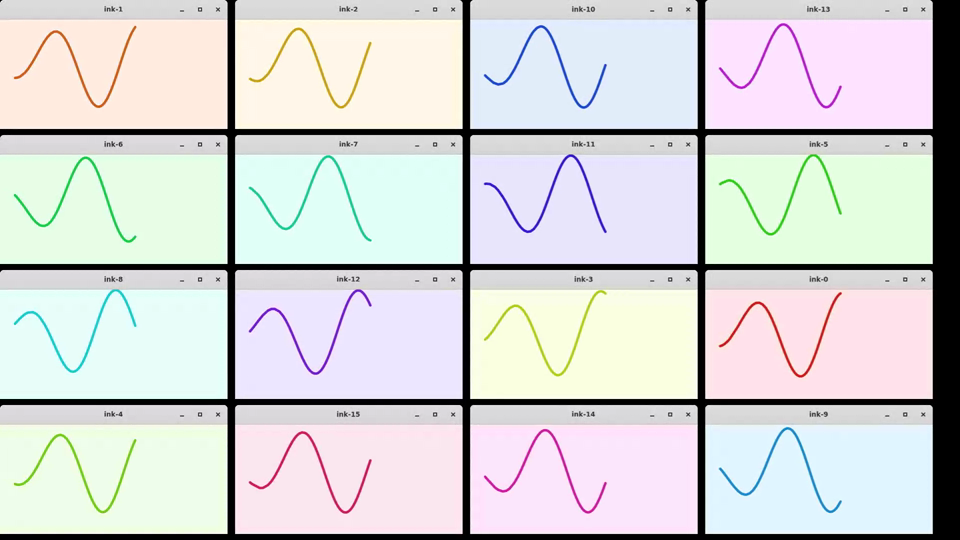
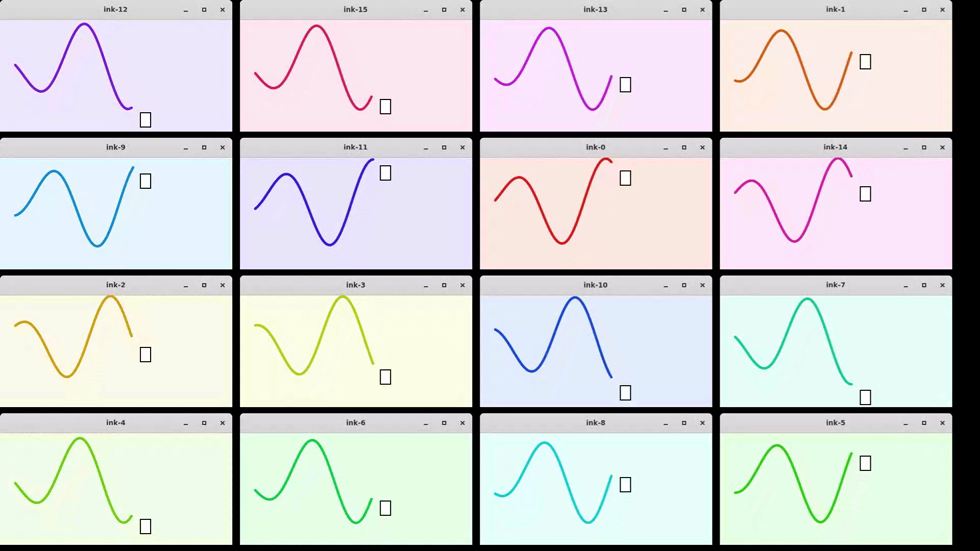
spike(cua-driver): visible per-session agent cursor overlay
Since injection bypasses the seat cursor (so the user's pointer never moves),
there was no on-screen cursor showing where clicks land. Adds a per-device
colored cursor drawn by the compositor (wlr_scene_rect) at each injection point,
raised above windows, flashing white on button press (phase_f_patch.py). The
driver now glides the pointer between targets so the cursor animates. Re-recorded
the app demo (cursor glides to each calc button) and the 16-window cursive (16
colored cursors) to show it.

diff --git a/libs/cua-driver/rust/crates/platform-linux/spikes/wayland-bg-input-app-demo/phase_f_patch.py b/libs/cua-driver/rust/crates/platform-linux/spikes/wayland-bg-input-app-demo/phase_f_patch.py
@@ -1,0 +1,262 @@
+#!/usr/bin/env python3
+# Phase E: add KEYBOARD injection to the EIS-server compositor (on top of the
+# Phase D pointer routing + screencopy/xdg-output/headless-mode/grid).
+# Device 0..g_nkbd-1 are virtual keyboards; the rest are abs pointers. Each
+# device idx routes to cua_win[idx] (keyboard -> wl_keyboard, pointer -> wl_pointer).
+import sys, io
+P = "/opt/spike/tinywl.c"
+src = io.open(P, encoding="utf-8").read()
+
+INCLUDES = """#include <stdint.h>
+#include <string.h>
+#include <sys/mman.h>
+#include <linux/input-event-codes.h>
+#include <wayland-server-protocol.h>
+#include <libeis.h>
+#include <wlr/types/wlr_screencopy_v1.h>
+#include <wlr/types/wlr_xdg_output_v1.h>
+
+#define CUA_MAXDEV 64
+static struct eis *g_eis = NULL;
+static int g_ndev = 16;
+static int g_nkbd = 0;
+static int g_keymap_fd = -1;
+static size_t g_keymap_size = 0;
+struct cua_devstate { struct wlr_surface *entered; struct wlr_scene_tree *cursor; struct wlr_scene_rect *cfill; float col[4]; };
+static struct cua_devstate cua_dev[CUA_MAXDEV];
+static struct cua_devstate cua_kbd[CUA_MAXDEV];
+static struct tinywl_toplevel *cua_win[CUA_MAXDEV];
+
+"""
+
+FUNCS = r"""
+static uint32_t cua_now_ms(void) {
+	struct timespec ts; clock_gettime(CLOCK_MONOTONIC, &ts);
+	return (uint32_t)(ts.tv_sec * 1000 + ts.tv_nsec / 1000000);
+}
+static void cua_frame(struct wl_resource *res) {
+	if (wl_resource_get_version(res) >= WL_POINTER_FRAME_SINCE_VERSION)
+		wl_pointer_send_frame(res);
+}
+static void cua_hsv(double h, double s, double v, float *r, float *g, float *b) {
+	h -= (int)h; int i = (int)(h*6); double f = h*6-i, p=v*(1-s), q=v*(1-f*s), t=v*(1-(1-f)*s);
+	switch (i%6) { case 0:*r=v;*g=t;*b=p;break; case 1:*r=q;*g=v;*b=p;break; case 2:*r=p;*g=v;*b=t;break;
+		case 3:*r=p;*g=q;*b=v;break; case 4:*r=t;*g=p;*b=v;break; default:*r=v;*g=p;*b=q; }
+}
+static void cua_cursor_at(struct tinywl_server *server, int idx, int ox, int oy) {
+	if (!cua_dev[idx].cursor) {
+		float col[4] = {1,1,1,1}; cua_hsv(idx*0.6180339887, 0.9, 0.95, &col[0], &col[1], &col[2]);
+		struct wlr_scene_tree *tr = wlr_scene_tree_create(&server->scene->tree);
+		float black[4] = {0,0,0,1};
+		wlr_scene_rect_create(tr, 22, 30, black);
+		struct wlr_scene_rect *fill = wlr_scene_rect_create(tr, 18, 26, col);
+		wlr_scene_node_set_position(&fill->node, 2, 2);
+		cua_dev[idx].cursor = tr; cua_dev[idx].cfill = fill;
+		memcpy(cua_dev[idx].col, col, sizeof col);
+	}
+	wlr_scene_node_set_position(&cua_dev[idx].cursor->node, ox, oy);
+	wlr_scene_node_raise_to_top(&cua_dev[idx].cursor->node);
+}
+static void cua_motion(struct tinywl_server *server, int idx, double x, double y) {
+	struct tinywl_toplevel *t = (idx >= 0 && idx < CUA_MAXDEV) ? cua_win[idx] : NULL;
+	if (!t) return;
+	struct wlr_surface *surface = t->xdg_toplevel->base->surface;
+	struct wlr_box geo = t->xdg_toplevel->base->geometry;
+	wl_fixed_t sx = wl_fixed_from_double(geo.x + x), sy = wl_fixed_from_double(geo.y + y);
+	struct wlr_seat_client *sc = wlr_seat_client_for_wl_client(server->seat, wl_resource_get_client(surface->resource));
+	if (!sc || wl_list_empty(&sc->pointers)) return;
+	cua_cursor_at(server, idx, t->scene_tree->node.x + geo.x + (int)x, t->scene_tree->node.y + geo.y + (int)y);
+	struct wl_resource *res;
+	if (cua_dev[idx].entered != surface) {
+		if (cua_dev[idx].entered) {
+			struct wlr_seat_client *o = wlr_seat_client_for_wl_client(server->seat, wl_resource_get_client(cua_dev[idx].entered->resource));
+			if (o) { uint32_t ls = wlr_seat_client_next_serial(o); struct wl_resource *r2; wl_resource_for_each(r2, &o->pointers) { wl_pointer_send_leave(r2, ls, cua_dev[idx].entered->resource); cua_frame(r2); } }
+		}
+		uint32_t es = wlr_seat_client_next_serial(sc);
+		wl_resource_for_each(res, &sc->pointers) { wl_pointer_send_enter(res, es, surface->resource, sx, sy); cua_frame(res); }
+		cua_dev[idx].entered = surface;
+	}
+	uint32_t tm = cua_now_ms();
+	wl_resource_for_each(res, &sc->pointers) { wl_pointer_send_motion(res, tm, sx, sy); cua_frame(res); }
+}
+static void cua_button(struct tinywl_server *server, int idx, uint32_t button, bool pressed) {
+	struct tinywl_toplevel *t = (idx >= 0 && idx < CUA_MAXDEV) ? cua_win[idx] : NULL;
+	if (!t) return;
+	struct wlr_surface *surface = t->xdg_toplevel->base->surface;
+	struct wlr_seat_client *sc = wlr_seat_client_for_wl_client(server->seat, wl_resource_get_client(surface->resource));
+	if (!sc || wl_list_empty(&sc->pointers)) return;
+	if (cua_dev[idx].cfill) { float wht[4] = {1,1,1,1}; wlr_scene_rect_set_color(cua_dev[idx].cfill, pressed ? wht : cua_dev[idx].col); if (cua_dev[idx].cursor) wlr_scene_node_raise_to_top(&cua_dev[idx].cursor->node); }
+	uint32_t tm = cua_now_ms(), bs = wlr_seat_client_next_serial(sc);
+	struct wl_resource *res;
+	wl_resource_for_each(res, &sc->pointers) {
+		wl_pointer_send_button(res, bs, tm, button, pressed ? WL_POINTER_BUTTON_STATE_PRESSED : WL_POINTER_BUTTON_STATE_RELEASED);
+		cua_frame(res);
+	}
+}
+static void cua_init_keymap(void) {
+	struct xkb_context *ctx = xkb_context_new(XKB_CONTEXT_NO_FLAGS);
+	struct xkb_rule_names names = {0};
+	struct xkb_keymap *km = xkb_keymap_new_from_names(ctx, &names, XKB_KEYMAP_COMPILE_NO_FLAGS);
+	char *s = xkb_keymap_get_as_string(km, XKB_KEYMAP_FORMAT_TEXT_V1);
+	g_keymap_size = strlen(s) + 1;
+	g_keymap_fd = memfd_create("cua-keymap", MFD_CLOEXEC);
+	if (ftruncate(g_keymap_fd, g_keymap_size) == 0) {
+		void *p = mmap(NULL, g_keymap_size, PROT_READ | PROT_WRITE, MAP_SHARED, g_keymap_fd, 0);
+		memcpy(p, s, g_keymap_size); munmap(p, g_keymap_size);
+	}
+	free(s); xkb_keymap_unref(km); xkb_context_unref(ctx);
+	wlr_log(WLR_INFO, "[PHASE-E] xkb keymap ready (%zu bytes)", g_keymap_size);
+}
+static void cua_key(struct tinywl_server *server, int idx, uint32_t keycode, bool pressed) {
+	struct tinywl_toplevel *t = (idx >= 0 && idx < CUA_MAXDEV) ? cua_win[idx] : NULL;
+	if (!t) return;
+	struct wlr_surface *surface = t->xdg_toplevel->base->surface;
+	struct wlr_seat_client *sc = wlr_seat_client_for_wl_client(server->seat, wl_resource_get_client(surface->resource));
+	if (!sc || wl_list_empty(&sc->keyboards)) return;
+	struct wl_resource *res;
+	if (cua_kbd[idx].entered != surface) {
+		uint32_t es = wlr_seat_client_next_serial(sc);
+		struct wl_array keys; wl_array_init(&keys);
+		wl_resource_for_each(res, &sc->keyboards) {
+			wl_keyboard_send_keymap(res, WL_KEYBOARD_KEYMAP_FORMAT_XKB_V1, g_keymap_fd, g_keymap_size);
+			wl_keyboard_send_enter(res, es, surface->resource, &keys);
+			wl_keyboard_send_modifiers(res, wlr_seat_client_next_serial(sc), 0, 0, 0, 0);
+		}
+		wl_array_release(&keys);
+		cua_kbd[idx].entered = surface;
+	}
+	uint32_t tm = cua_now_ms(), ks = wlr_seat_client_next_serial(sc);
+	wl_resource_for_each(res, &sc->keyboards) {
+		wl_keyboard_send_key(res, ks, tm, keycode, pressed ? WL_KEYBOARD_KEY_STATE_PRESSED : WL_KEYBOARD_KEY_STATE_RELEASED);
+	}
+}
+static int eis_loop_cb(int fd, uint32_t mask, void *data) {
+	struct tinywl_server *server = data;
+	eis_dispatch(g_eis);
+	struct eis_event *e;
+	while ((e = eis_get_event(g_eis)) != NULL) {
+		switch (eis_event_get_type(e)) {
+		case EIS_EVENT_CLIENT_CONNECT: {
+			struct eis_client *client = eis_event_get_client(e);
+			wlr_log(WLR_INFO, "[PHASE-E] EIS client connect; %d devices (%d keyboard)", g_ndev, g_nkbd);
+			eis_client_connect(client);
+			struct eis_seat *seat = eis_client_new_seat(client, "cua-seat");
+			eis_seat_configure_capability(seat, EIS_DEVICE_CAP_POINTER_ABSOLUTE);
+			eis_seat_configure_capability(seat, EIS_DEVICE_CAP_BUTTON);
+			eis_seat_configure_capability(seat, EIS_DEVICE_CAP_KEYBOARD);
+			eis_seat_add(seat);
+			break;
+		}
+		case EIS_EVENT_SEAT_BIND: {
+			struct eis_seat *seat = eis_event_get_seat(e);
+			for (int i = 0; i < g_ndev && i < CUA_MAXDEV; i++) {
+				struct eis_device *dev = eis_seat_new_device(seat);
+				char nm[64];
+				if (i < g_nkbd) {
+					snprintf(nm, sizeof nm, "cua-keyboard-%d", i);
+					eis_device_configure_name(dev, nm);
+					eis_device_configure_type(dev, EIS_DEVICE_TYPE_VIRTUAL);
+					eis_device_configure_capability(dev, EIS_DEVICE_CAP_KEYBOARD);
+					struct eis_keymap *kmap = eis_device_new_keymap(dev, EIS_KEYMAP_TYPE_XKB, g_keymap_fd, g_keymap_size);
+					eis_keymap_add(kmap);
+				} else {
+					snprintf(nm, sizeof nm, "cua-pointer-%d", i);
+					eis_device_configure_name(dev, nm);
+					eis_device_configure_type(dev, EIS_DEVICE_TYPE_VIRTUAL);
+					eis_device_configure_capability(dev, EIS_DEVICE_CAP_POINTER_ABSOLUTE);
+					eis_device_configure_capability(dev, EIS_DEVICE_CAP_BUTTON);
+					struct eis_region *r = eis_device_new_region(dev);
+					eis_region_set_offset(r, 0, 0);
+					eis_region_set_size(r, 1920, 1080);
+					eis_region_add(r);
+				}
+				eis_device_set_user_data(dev, (void *)(intptr_t)i);
+				eis_device_add(dev);
+				eis_device_resume(dev);
+			}
+			wlr_log(WLR_INFO, "[PHASE-E] SEAT_BIND -> created %d devices", g_ndev);
+			break;
+		}
+		case EIS_EVENT_POINTER_MOTION_ABSOLUTE: {
+			int idx = (int)(intptr_t)eis_device_get_user_data(eis_event_get_device(e));
+			cua_motion(server, idx, eis_event_pointer_get_absolute_x(e), eis_event_pointer_get_absolute_y(e));
+			break;
+		}
+		case EIS_EVENT_BUTTON_BUTTON: {
+			int idx = (int)(intptr_t)eis_device_get_user_data(eis_event_get_device(e));
+			cua_button(server, idx, eis_event_button_get_button(e), eis_event_button_get_is_press(e));
+			break;
+		}
+		case EIS_EVENT_KEYBOARD_KEY: {
+			int idx = (int)(intptr_t)eis_device_get_user_data(eis_event_get_device(e));
+			cua_key(server, idx, eis_event_keyboard_get_key(e), eis_event_keyboard_get_key_is_press(e));
+			break;
+		}
+		default: break;
+		}
+		eis_event_unref(e);
+	}
+	wl_display_flush_clients(server->wl_display);
+	return 0;
+}
+
+"""
+
+EIS_SETUP = """	wlr_screencopy_manager_v1_create(server.wl_display);
+	{
+		const char *nd = getenv("CUA_NDEV"); if (nd) g_ndev = atoi(nd);
+		const char *nk = getenv("CUA_NKBD"); if (nk) g_nkbd = atoi(nk);
+		cua_init_keymap();
+		const char *eis_sock = getenv("CUA_EIS_SOCKET");
+		if (eis_sock == NULL) eis_sock = "cua-eis-0";
+		g_eis = eis_new(&server);
+		if (g_eis == NULL || eis_setup_backend_socket(g_eis, eis_sock) != 0) {
+			wlr_log(WLR_ERROR, "[PHASE-E] failed to set up EIS socket '%s'", eis_sock);
+		} else {
+			struct wl_event_loop *eloop = wl_display_get_event_loop(server.wl_display);
+			wl_event_loop_add_fd(eloop, eis_get_fd(g_eis), WL_EVENT_READABLE, eis_loop_cb, &server);
+			wlr_log(WLR_INFO, "[PHASE-E] EIS server on '%s', ndev=%d nkbd=%d", eis_sock, g_ndev, g_nkbd);
+		}
+	}
+	"""
+
+GRID = """wl_list_insert(&toplevel->server->toplevels, &toplevel->link);
+	{ /* tile windows into a grid (and place a non-driven foreground window) */
+		static int g_place = 0; int idx = g_place++;
+		if (idx >= 0 && idx < CUA_MAXDEV) cua_win[idx] = toplevel;
+		int cols = 4, cw = 470, ch = 270, fidx = -1, fx = 0, fy = 0; const char *e;
+		if ((e = getenv("CUA_COLS"))) cols = atoi(e);
+		if ((e = getenv("CUA_CELLW"))) cw = atoi(e);
+		if ((e = getenv("CUA_CELLH"))) ch = atoi(e);
+		if ((e = getenv("CUA_FRONT_IDX"))) fidx = atoi(e);
+		if ((e = getenv("CUA_FRONT_X"))) fx = atoi(e);
+		if ((e = getenv("CUA_FRONT_Y"))) fy = atoi(e);
+		if (idx == fidx)
+			wlr_scene_node_set_position(&toplevel->scene_tree->node, fx, fy);
+		else
+			wlr_scene_node_set_position(&toplevel->scene_tree->node, (idx % cols) * cw, (idx / cols) * ch);
+	}"""
+
+def repl(s, old, new, label):
+    if s.count(old) != 1:
+        print("ANCHOR FAIL [%s]: count=%d" % (label, s.count(old))); sys.exit(1)
+    print("ok [%s]" % label); return s.replace(old, new)
+
+src = repl(src, "struct tinywl_server {", INCLUDES + "struct tinywl_server {", "includes")
+src = repl(src,
+    'server.seat = wlr_seat_create(server.wl_display, "seat0");',
+    'server.seat = wlr_seat_create(server.wl_display, "seat0");\n\twlr_seat_set_capabilities(server.seat, WL_SEAT_CAPABILITY_POINTER | WL_SEAT_CAPABILITY_KEYBOARD);',
+    "force-caps")
+src = repl(src, "int main(int argc, char *argv[]) {", FUNCS + "int main(int argc, char *argv[]) {", "funcs")
+src = repl(src, "wl_display_run(server.wl_display);", EIS_SETUP + "wl_display_run(server.wl_display);", "eis-setup")
+src = repl(src, "wl_list_insert(&toplevel->server->toplevels, &toplevel->link);", GRID, "grid-placement")
+src = repl(src,
+    "\tstruct wlr_output_mode *mode = wlr_output_preferred_mode(wlr_output);\n\tif (mode != NULL) {\n\t\twlr_output_state_set_mode(&state, mode);\n\t}",
+    "\tstruct wlr_output_mode *mode = wlr_output_preferred_mode(wlr_output);\n\tif (mode != NULL) {\n\t\twlr_output_state_set_mode(&state, mode);\n\t} else {\n\t\tint ow = getenv(\"CUA_OUTW\") ? atoi(getenv(\"CUA_OUTW\")) : 1920;\n\t\tint oh = getenv(\"CUA_OUTH\") ? atoi(getenv(\"CUA_OUTH\")) : 1080;\n\t\twlr_output_state_set_custom_mode(&state, ow, oh, 0);\n\t}",
+    "headless-custom-mode")
+src = repl(src,
+    "server.output_layout = wlr_output_layout_create(server.wl_display);",
+    "server.output_layout = wlr_output_layout_create(server.wl_display);\n\twlr_xdg_output_manager_v1_create(server.wl_display, server.output_layout);",
+    "xdg-output-manager")
+io.open(P, "w", encoding="utf-8").write(src)
+print("PHASE-F PATCHED OK")

diff --git a/libs/cua-driver/rust/crates/platform-linux/spikes/wayland-bg-input-app-demo/type_use.c b/libs/cua-driver/rust/crates/platform-linux/spikes/wayland-bg-input-app-demo/type_use.c
@@ -35,14 +35,24 @@ static void type(struct ei *ei, struct ei_device *k, const char *s) {
 	ei_device_stop_emulating(k); ei_dispatch(ei);
 	printf("TYPE: \"%s\"\n", s); fflush(stdout);
 }
+static double curx = 40, cury = 40;
+static void glide(struct ei *ei, struct ei_device *d, double tx, double ty) {
+	int N = 20;
+	for (int i = 1; i <= N; i++) {
+		double x = curx + (tx-curx)*i/N, y = cury + (ty-cury)*i/N;
+		ei_device_pointer_motion_absolute(d, x, y); ei_device_frame(d, ei_now(ei));
+		ei_dispatch(ei); usleep(16000);
+	}
+	curx = tx; cury = ty;
+}
 static void click(struct ei *ei, struct ei_device *d, const char *label) {
 	int i = find(label); if (i < 0) { printf("USE: no '%s'\n", label); return; }
 	ei_device_start_emulating(d, 1);
-	ei_device_pointer_motion_absolute(d, bx[i], by[i]); ei_device_frame(d, ei_now(ei)); usleep(150000);
-	ei_device_button_button(d, BTN_LEFT, true);  ei_device_frame(d, ei_now(ei)); usleep(120000);
+	glide(ei, d, bx[i], by[i]); usleep(130000);
+	ei_device_button_button(d, BTN_LEFT, true);  ei_device_frame(d, ei_now(ei)); usleep(150000);
 	ei_device_button_button(d, BTN_LEFT, false); ei_device_frame(d, ei_now(ei));
 	ei_device_stop_emulating(d); ei_dispatch(ei);
-	printf("CLICK: '%s' @ %.0f,%.0f\n", label, bx[i], by[i]); fflush(stdout); usleep(650000);
+	printf("CLICK: '%s' @ %.0f,%.0f\n", label, bx[i], by[i]); fflush(stdout); usleep(500000);
 }
 int main(void) {
 	const char *sock = getenv("CUA_EIS_SOCKET"); if (!sock) sock = "cua-eis-0";